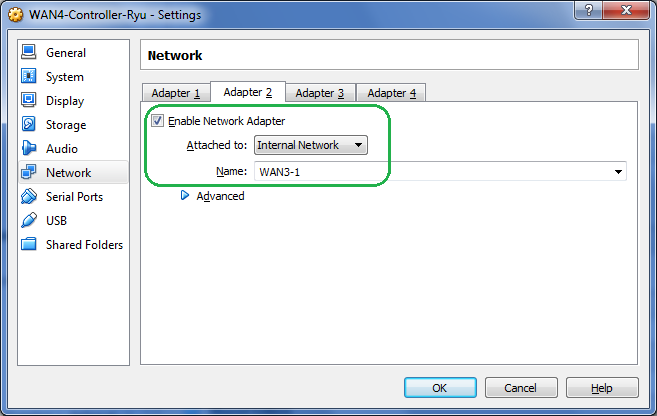
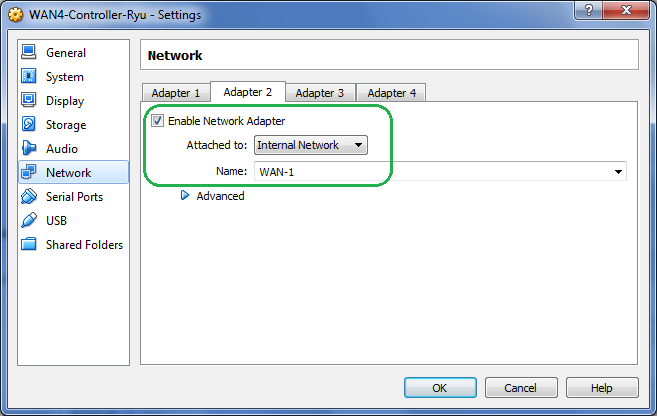
site updates

diff --git a/index.html b/index.html
@@ -37,9 +37,6 @@
       <section id="main_content" class="inner">
         <p><img src="images/nmeta.png" alt=""></p>
 
-<h1>
-<a id="nmeta---network-metadata" class="anchor" href="#nmeta---network-metadata" aria-hidden="true"><span class="octicon octicon-link"></span></a>nmeta - Network Metadata</h1>
-
 <p>The nmeta project is founded on the belief that innovation in enterprise networks requires a foundation layer of knowledge about both the participants and their types of conversation. The production of this enriched network metadata requires policy-based control and ability to adapt to new purposes through extensibility. </p>
 
 <p>Enriched network metadata has a number of uses, including classifying flows for Quality of Service (QoS), traffic engineering and security.</p>

diff --git a/extras.html b/extras.html
@@ -77,7 +77,7 @@
 
 <p><img src="images/lab/lab9.png" alt="Lab Pic 9"></p>
 
-<p>As above, there should now be two ISO files associated.<\p>
+<p>As above, there should now be two ISO files associated.</p>
 
 <p>Go into the Network settings and leave Adapter 1 as per defaults to allow NAT access to the Internet (required for downloading software packages from the Internet). Configure Adapter 2 as per screenshot below to connect to Internal Network "WAN-1":</p>
 
@@ -94,6 +94,8 @@
 
 <pre><code>cd /media
 </code></pre>
+
+<p>Look for the appropriate subdirectories that contain the correct additions version. Example:</p>
 
 
 
